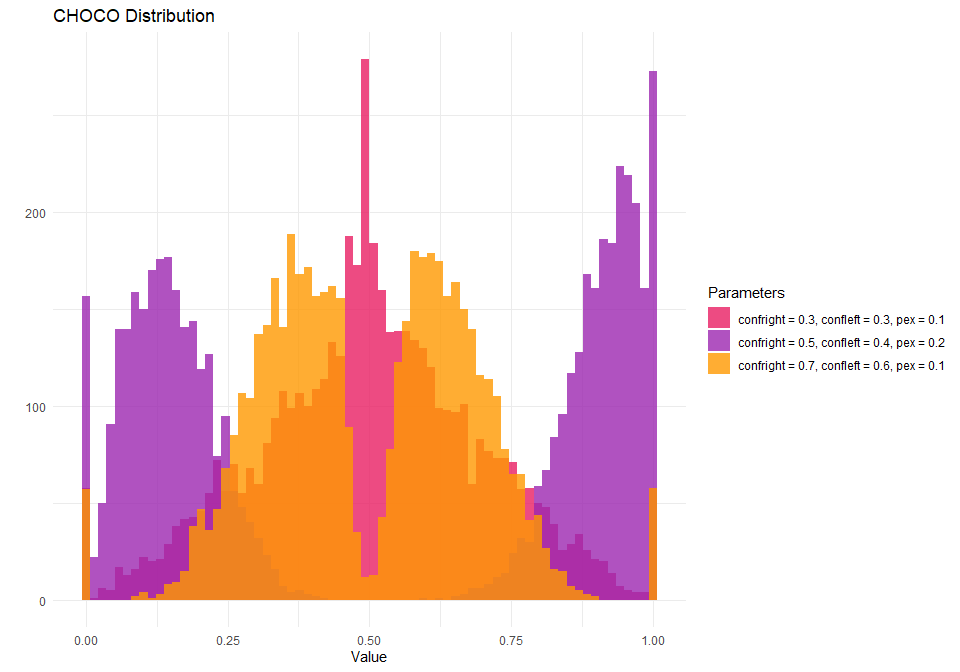
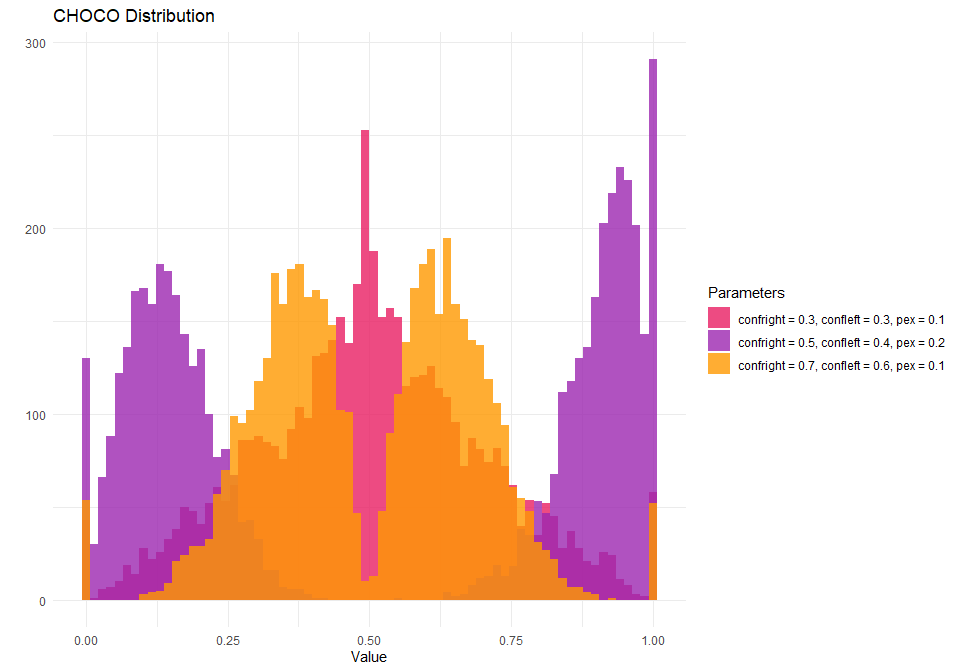
minor

diff --git a/README.md b/README.md
@@ -1,6 +1,18 @@
 # cogmod
 
 
+<!-- cogitR -->
+
+<!-- cogbox -->
+
+<!-- brainexplain -->
+
+<!-- brainy: The R package for Computational Cognitive Models -->
+
+<!-- BrainieR -->
+
+<!-- ComputationalCognition -->
+
 [![Documentation](https://img.shields.io/badge/documentation-cogmod-orange.svg?colorB=E91E63)](https://dominiquemakowski.github.io/cogmod/)
 [![Models](https://img.shields.io/badge/models-list-orange.svg?colorB=2196F3)](https://dominiquemakowski.github.io/cogmod/reference/index.html)
 
@@ -9,6 +21,11 @@
 ## Status
 
 ![Status](https://img.shields.io/badge/status-WIP-orange.svg)
+
+This R package is dedicated to facilitate the application of
+computational cognitive models in R under a Bayesian framework. These
+are useful in the field of cognitive science and computational
+neuropsycholology.
 
 **This package is very much totally exploratory - currently made for my
 own needs.** It’s not meant to be stable and robust at this stage. Use
@@ -126,10 +143,15 @@ ggplot(lnr_data, aes(x = rt, fill = factor(response))) +
 
 ### Subjective Ratings
 
+#### Bounded Continuous Distributions (Analog Scales)
+
 - [**See this
   tutorial**](https://dominiquemakowski.github.io/cogmod/articles/subjective_ratings.html)
+  - [x] Choice-Confidence (CHOCO) models (Bi-modal Beta)
+  - [x] Beta-gate (Ordered Beta for 0-1 inflated Beta)
 
-![](man/figures/subjective_ratings1.png)
+![](man/figures/subjective_ratings1.png) \#### Bounded Discrete
+Distributions (Likert Scales)
 
 ### Cognitive Tasks
 